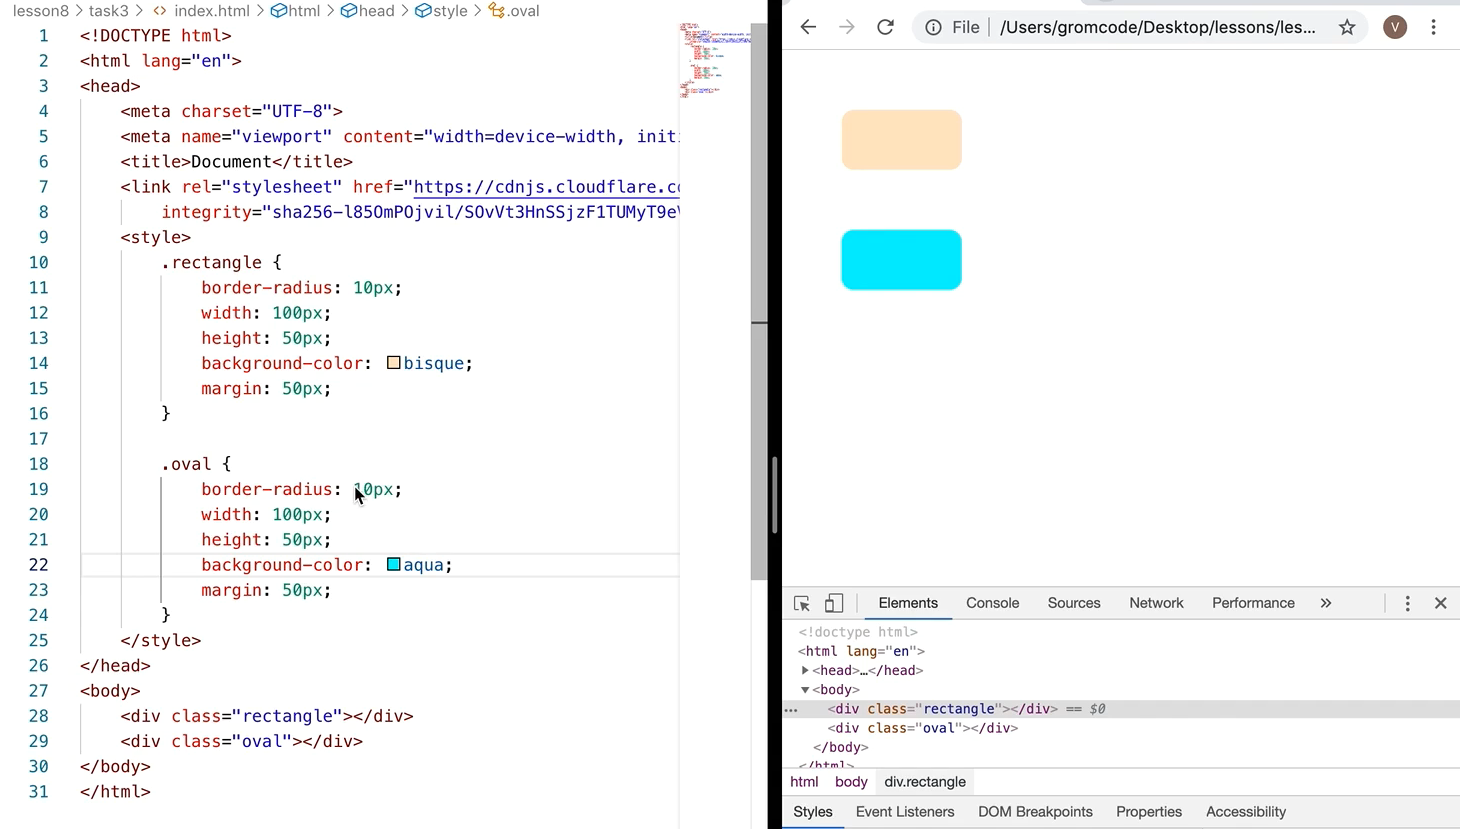
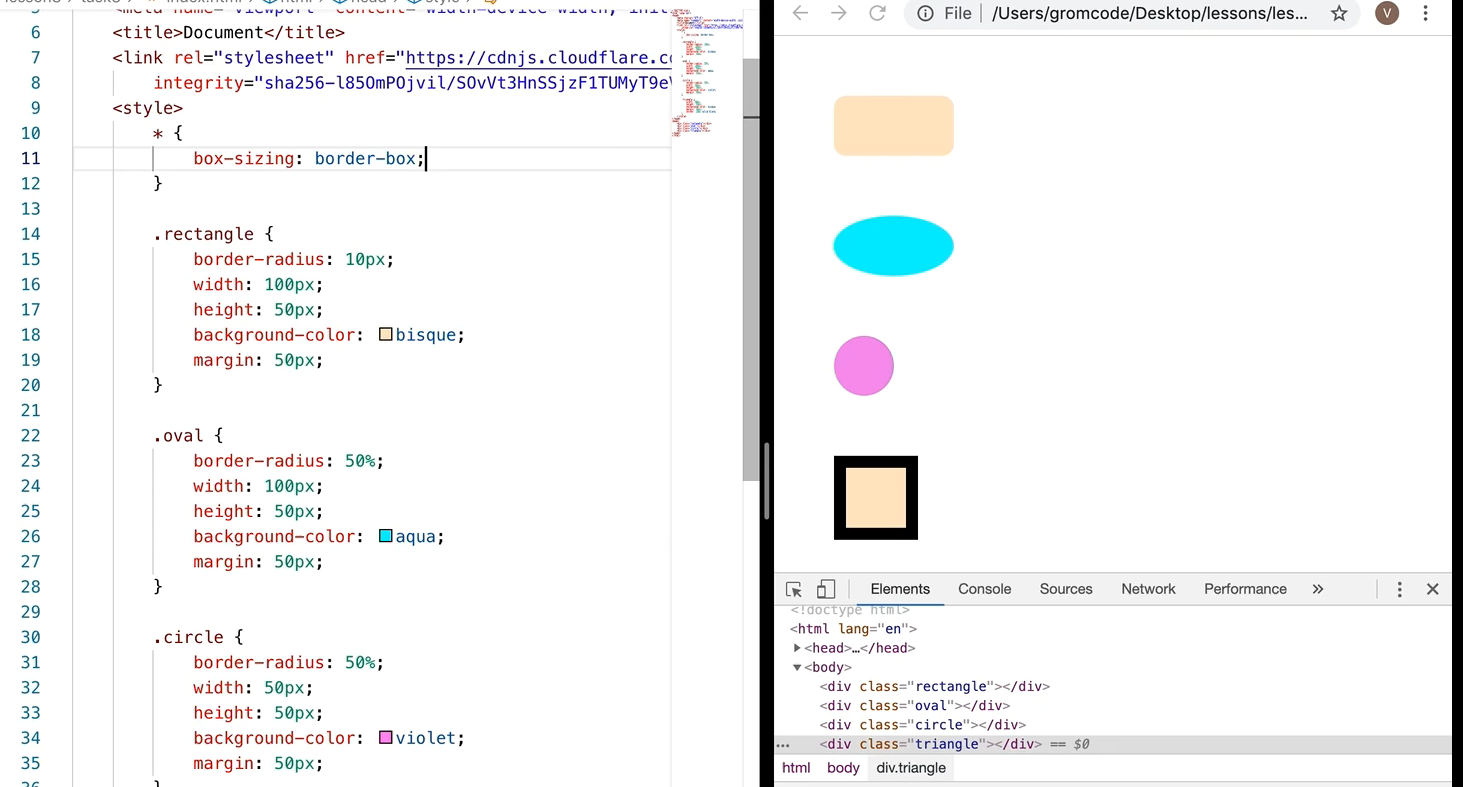
task3

diff --git a/lesson8/task3/index.html b/lesson8/task3/index.html
@@ -1,0 +1,20 @@
+<!DOCTYPE html>
+<html lang="en">
+<head>
+    <meta charset="UTF-8">
+    <meta http-equiv="X-UA-Compatible" content="IE=edge">
+    <meta name="viewport" content="width=device-width, initial-scale=1.0">
+    <title>Document</title>
+    <link rel="stylesheet" href="https://cdnjs.cloudflare.com/ajax/libs/normalize/8.0.1/normalize.min.css"
+        integrity="sha512-NhSC1YmyruXifcj/KFRWoC561YpHpc5Jtzgvbuzx5VozKpWvQ+4nXhPdFgmx8xqexRcpAglTj9sIBWINXa8x5w=="
+        crossorigin="anonymous" referrerpolicy="no-referrer" />
+    <link rel="stylesheet" href="styles.css">
+</head>
+<body>
+    <div class="rectangle"></div>
+    <div class="oval"></div>
+    <div class="circle"></div>
+    <div class="triangle"></div>
+    
+</body>
+</html>

diff --git a/lesson8/task3/styles.css b/lesson8/task3/styles.css
@@ -1,0 +1,32 @@
+*{
+    box-sizing: border-box;
+}
+
+.rectangle{
+    border-radius: 16px;
+    width: 100px;
+    height: 50px;
+    background-color: forestgreen;
+    margin: 50px;
+}
+.oval{
+    border-radius: 50%;
+    width: 100px;
+    height: 50px;
+    background-color: darkmagenta;
+    margin: 50px;
+}
+.circle{
+    border-radius: 50%;
+    width: 100px;
+    height: 100px;
+    background-color: aquamarine;
+    margin: 50px;
+}
+.triangle{
+    width: 100px;
+    height: 100px;
+    margin: 50px;
+    border: 50px solid transparent;
+    border-top-color: brown ;
+}
